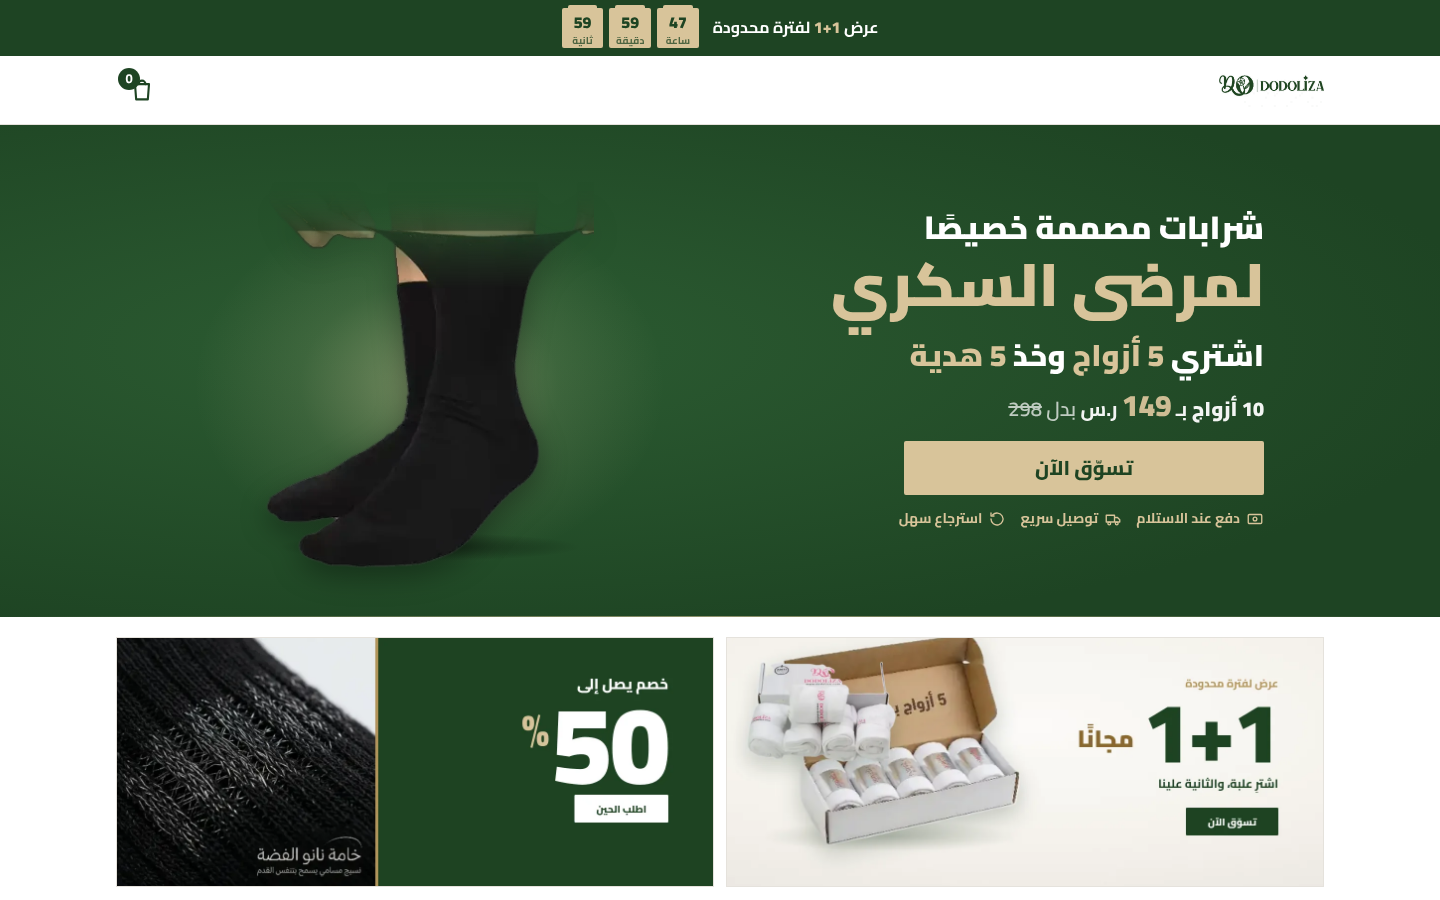
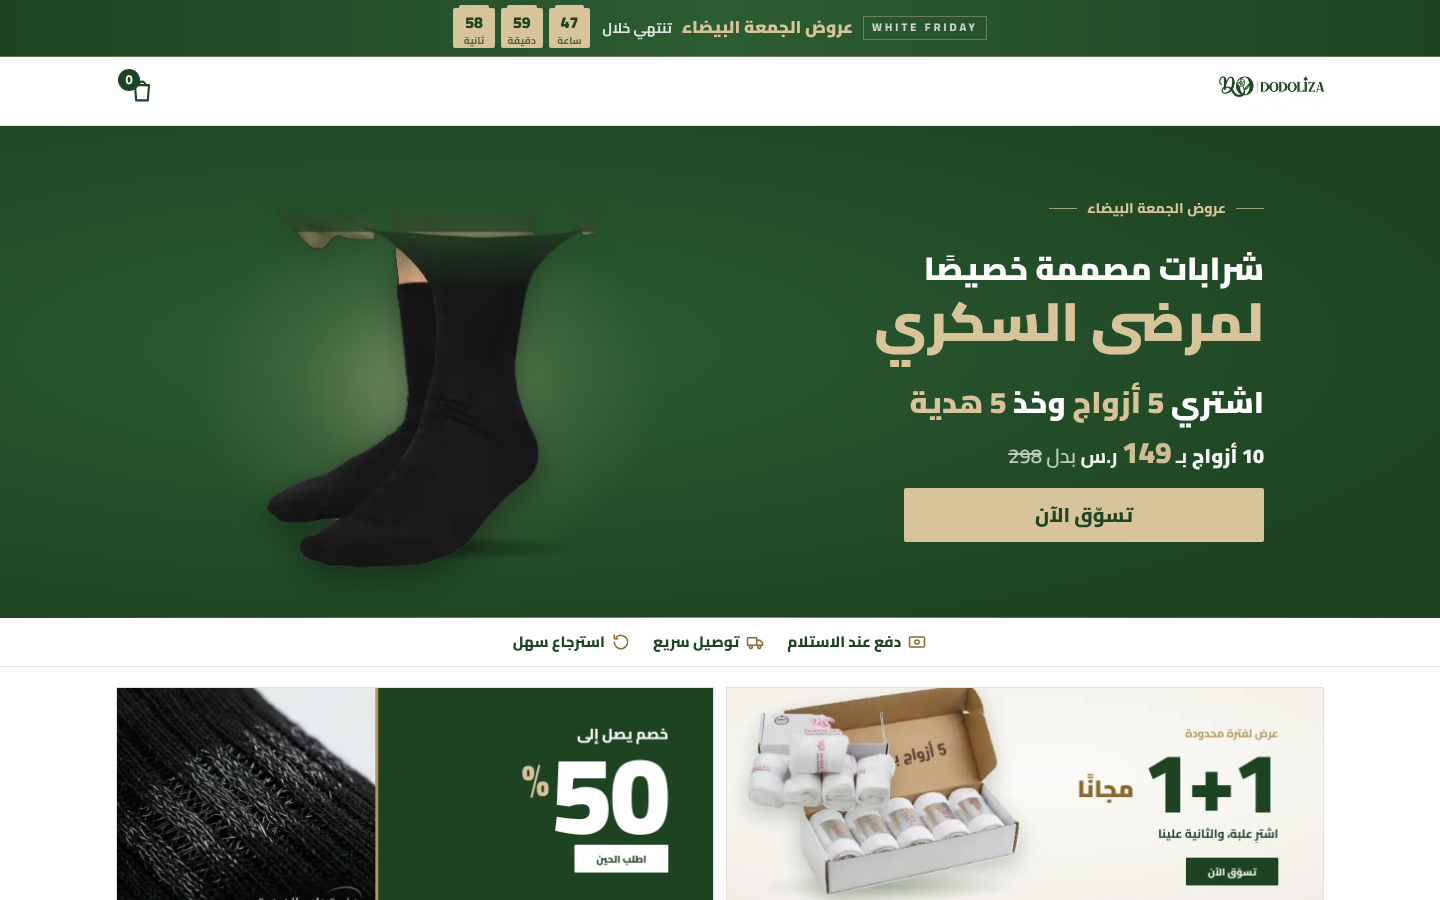
Landing: White Friday top bar and hero eyebrow; move perks to strip below hero
Claude-Session: https://claude.ai/code/session_01AJjyc44kVcwQ92Pzo13Xhg

diff --git a/landing/site/index.html b/landing/site/index.html
@@ -39,7 +39,13 @@ button{cursor:pointer}
 
 /* Top offer bar */
 .topbar{position:relative;z-index:5;background:var(--navy);color:var(--white)}
-.topbar .wrap{display:flex;align-items:center;justify-content:center;gap:14px;flex-wrap:wrap;padding-block:8px;font-weight:700;font-size:16px;text-align:center}
+.topbar .wrap{display:flex;align-items:center;justify-content:center;gap:12px;flex-wrap:wrap;padding-block:8px;font-weight:700;font-size:16px;text-align:center}
+.topbar{background:linear-gradient(90deg,var(--navy) 0%,var(--navy-2) 50%,var(--navy) 100%);border-bottom:1px solid rgba(216,196,154,.35)}
+.wf-bar{display:inline-flex;align-items:center;gap:10px}
+.wf-bar b{color:var(--gold-soft);font-weight:900;font-size:17px}
+.wf-en{font-size:11px;font-weight:800;letter-spacing:.28em;color:var(--white);opacity:.75;border:1px solid rgba(216,196,154,.5);padding:2px 8px}
+.wf-end{font-size:14px;opacity:.85}
+@media (max-width:480px){.wf-en,.wf-end{display:none}}
 .cd{display:inline-flex;gap:6px;font-variant-numeric:tabular-nums}
 .cd span{background:var(--gold-soft);color:var(--navy);min-width:40px;padding:2px 6px;border-radius:var(--radius);font-weight:900;text-align:center}
 .cd small{display:block;font-size:10px;font-weight:700;color:var(--navy);opacity:.75;line-height:1}
@@ -55,14 +61,16 @@ button{cursor:pointer}
 /* Hero — mobile: title → product → offer; desktop: copy right, product left, both vertically centred */
 .hero{position:relative;background:radial-gradient(120% 100% at 30% 45%,var(--navy-2) 0%,var(--navy) 62%);color:var(--white);overflow:hidden}
 .hero::after{content:"";position:absolute;inset:auto 0 0;height:1px;background:linear-gradient(90deg,transparent,var(--gold-soft),transparent);opacity:.6}
-.hero-in{max-width:1120px;margin-inline:auto;padding-block:28px 26px;padding-left:var(--gutter-l);padding-right:var(--gutter-r);display:grid;grid-template-areas:"t" "p" "o";justify-items:center;text-align:center;gap:6px}
+.hero-in{max-width:1120px;margin-inline:auto;padding-block:28px 26px;padding-left:var(--gutter-l);padding-right:var(--gutter-r);display:grid;grid-template-areas:"e" "t" "p" "o";justify-items:center;text-align:center;gap:10px}
 .hero-t{grid-area:t;margin:0;display:grid;line-height:1.25;font-weight:900;text-wrap:balance}
 .hero-k{font-size:clamp(20px,5.6vw,32px)}
-.hero-t .hl{font-size:clamp(34px,10vw,60px);letter-spacing:-.01em}
+.hero-t .hl{font-size:clamp(30px,8.6vw,54px);letter-spacing:-.01em}
+.hero-eye{grid-area:e;margin:0;display:flex;align-items:center;gap:10px;color:var(--gold-soft);font-size:14px;font-weight:800;letter-spacing:.04em}
+.hero-eye::before,.hero-eye::after{content:"";width:28px;height:1px;background:var(--gold-soft);opacity:.7}
 .hero-pic{grid-area:p;position:relative;width:min(78vw,300px);display:grid;place-items:center}
 .hero-pic::before{content:"";position:absolute;inset:8% -6% 0;background:radial-gradient(closest-side,rgba(232,214,170,.40),rgba(232,214,170,.10) 55%,rgba(232,214,170,0))}
 .hero-pic::after{content:"";position:absolute;left:14%;right:14%;bottom:2%;height:7%;border-radius:50%;background:radial-gradient(closest-side,rgba(0,0,0,.45),rgba(0,0,0,0))}
-.hero-pic img{position:relative;z-index:1;display:block;width:100%;height:auto;max-height:34vh;object-fit:contain;filter:drop-shadow(0 10px 14px rgba(0,0,0,.35))}
+.hero-pic img{position:relative;z-index:1;display:block;width:100%;height:auto;max-height:30vh;object-fit:contain;filter:drop-shadow(0 10px 14px rgba(0,0,0,.35))}
 .hero-offer{grid-area:o;display:grid;justify-items:center;gap:6px;width:100%}
 .hero-offer p{margin:0}
 .offer-main{font-size:clamp(21px,5.6vw,30px);font-weight:900;line-height:1.3}
@@ -70,16 +78,17 @@ button{cursor:pointer}
 .offer-price .big{font-size:1.5em}
 .was-l{opacity:.75;font-weight:600}
 .hero-cta{width:min(100%,360px);min-height:54px;margin-top:6px;font-size:20px}
-.hero-perks{list-style:none;margin:6px 0 0;padding:0;display:flex;flex-wrap:wrap;justify-content:center;gap:4px 14px;font-size:14px;font-weight:700;color:var(--gold-soft)}
+.perks-strip{border-bottom:1px solid var(--line);background:var(--white);padding-left:var(--gutter-l);padding-right:var(--gutter-r)}
+.hero-perks{list-style:none;margin:0 auto;max-width:var(--wrap);padding:12px 0;display:flex;flex-wrap:wrap;justify-content:center;gap:6px 22px;font-size:15px;font-weight:800;color:var(--navy)}
 .hero-perks li{display:inline-flex;align-items:center;gap:6px}
-.hero-perks svg{width:18px;height:18px}
+.hero-perks svg{width:20px;height:20px;color:var(--gold)}
 @media (min-width:900px){
-  .hero-in{grid-template-columns:minmax(0,1.05fr) minmax(0,1fr);grid-template-areas:"t p" "o p";align-content:center;justify-items:start;text-align:right;padding-block:44px 48px;gap:14px 48px;min-height:440px}
-  .hero-t{align-self:end}
+  .hero-in{grid-template-columns:minmax(0,1.05fr) minmax(0,1fr);grid-template-areas:"e p" "t p" "o p";align-content:center;justify-items:start;text-align:right;padding-block:44px 48px;gap:14px 48px;min-height:440px}
+  .hero-eye{align-self:end}
+  .hero-t{align-self:center}
   .hero-offer{align-self:start;justify-items:start}
   .hero-pic{width:100%;max-width:420px;justify-self:center;align-self:center}
   .hero-pic img{max-height:400px}
-  .hero-perks{justify-content:flex-start}
 }
 @media (min-width:900px){.card .stamp{--s:84px}}
 
@@ -241,7 +250,7 @@ button{cursor:pointer}
   <path d="M39 66.5h22" stroke="currentColor" stroke-width=".7"/></symbol></svg>
 <div class="topbar" role="region" aria-label="العرض">
   <div class="wrap">
-    <span>عرض <span class="hl" dir="ltr">1+1</span> لفترة محدودة</span>
+    <span class="wf-bar"><span class="wf-en" aria-hidden="true">WHITE FRIDAY</span><b>عروض الجمعة البيضاء</b><span class="wf-end">تنتهي خلال</span></span>
     <span class="cd" id="cd" aria-live="off">
       <span><span id="cd-h">00</span><small>ساعة</small></span>
       <span><span id="cd-m">00</span><small>دقيقة</small></span>
@@ -263,20 +272,17 @@ button{cursor:pointer}
 <main id="top">
   <section class="hero" aria-label="العرض الرئيسي">
     <div class="hero-in">
+      <p class="hero-eye"><span>عروض الجمعة البيضاء</span></p>
       <h1 class="hero-t"><span class="hero-k">شرابات مصممة خصيصًا</span><span class="hl">لمرضى السكري</span></h1>
       <div class="hero-pic"><img src="img/hero-stretch.webp" alt="شراب دودليزا الأسود بحافة واسعة" width="707" height="861"></div>
       <div class="hero-offer">
         <p class="offer-main">اشتري <b class="hl">5 أزواج</b> وخذ <b class="hl">5 هدية</b></p>
         <p class="offer-price"><b>10 أزواج</b> بـ <b class="hl big">149</b> ر.س <span class="was-l">بدل <s>298</s></span></p>
         <a class="btn btn-gold hero-cta" href="#products">تسوّق الآن</a>
-        <ul class="hero-perks" aria-label="مميزات الشراء">
-          <li><svg viewBox="0 0 24 24" fill="none" stroke="currentColor" stroke-width="1.8" stroke-linecap="round" stroke-linejoin="round" aria-hidden="true"><rect x="3" y="6" width="18" height="12" rx="1.5"/><circle cx="12" cy="12" r="2.5"/></svg>دفع عند الاستلام</li>
-          <li><svg viewBox="0 0 24 24" fill="none" stroke="currentColor" stroke-width="1.8" stroke-linecap="round" stroke-linejoin="round" aria-hidden="true"><path d="M3 7h11v9H3zM14 10h4l3 3v3h-7"/><circle cx="7" cy="18" r="1.8"/><circle cx="17" cy="18" r="1.8"/></svg>توصيل سريع</li>
-          <li><svg viewBox="0 0 24 24" fill="none" stroke="currentColor" stroke-width="1.8" stroke-linecap="round" stroke-linejoin="round" aria-hidden="true"><path d="M4 12a8 8 0 1 0 2.3-5.6"/><path d="M4 4v4h4"/></svg>استرجاع سهل</li>
-        </ul>
       </div>
     </div>
   </section>
+  <div class="perks-strip"><ul class="hero-perks" aria-label="مميزات الشراء"><li><svg viewBox="0 0 24 24" fill="none" stroke="currentColor" stroke-width="1.8" stroke-linecap="round" stroke-linejoin="round" aria-hidden="true"><rect x="3" y="6" width="18" height="12" rx="1.5"/><circle cx="12" cy="12" r="2.5"/></svg>دفع عند الاستلام</li><li><svg viewBox="0 0 24 24" fill="none" stroke="currentColor" stroke-width="1.8" stroke-linecap="round" stroke-linejoin="round" aria-hidden="true"><path d="M3 7h11v9H3zM14 10h4l3 3v3h-7"/><circle cx="7" cy="18" r="1.8"/><circle cx="17" cy="18" r="1.8"/></svg>توصيل سريع</li><li><svg viewBox="0 0 24 24" fill="none" stroke="currentColor" stroke-width="1.8" stroke-linecap="round" stroke-linejoin="round" aria-hidden="true"><path d="M4 12a8 8 0 1 0 2.3-5.6"/><path d="M4 4v4h4"/></svg>استرجاع سهل</li></ul></div>
 
   <div class="wrap">
     <div class="tiles">
